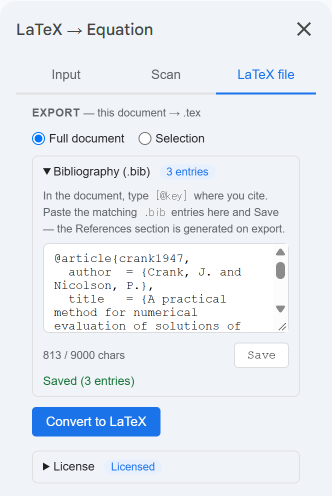
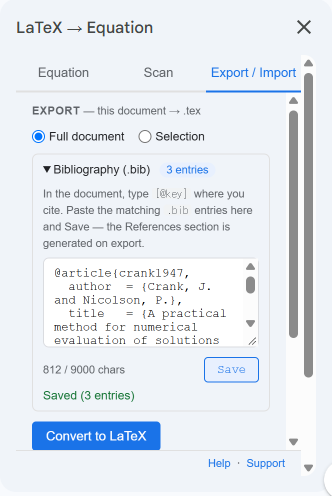
img(10-29): re-shoot 04-bib-box on live v17 (Export / Import tab, Saved (3 entries)); alt char count 813 -> 812 as shown - R182
Claude-Session: https://claude.ai/code/session_01WtnKZasBhqLtdkMYmNon2T

diff --git a/_posts/2026-10-29-google-docs-paper-draft-to-overleaf.md b/_posts/2026-10-29-google-docs-paper-draft-to-overleaf.md
@@ -38,7 +38,7 @@ description: "지도교수와 구글 문서에서 댓글로 다듬던 논문 초
 
 Zotero, Google Scholar, 학회 사이트에서 받은 BibTeX 항목을 `.bib` 하나로 모읍니다. LaTeXFlow 사이드바의 **Export / Import** 탭에서 **Bibliography (.bib)** 칸에 붙여넣고 저장하면, 그 항목들이 이 문서에 저장됩니다. 한 번 저장해 두면 다음에 내보낼 때마다 다시 붙일 필요가 없습니다.
 
-![LaTeXFlow 사이드바의 Export / Import 탭: Bibliography (.bib) 를 펼치면 [@key] 로 인용하라는 안내, @article{crank1947, ... 로 시작하는 붙여넣은 BibTeX, 813 / 9000 chars, Save 버튼, Saved (3 entries) 와 3 entries 표시](/assets/img/posts/2026-10-29/04-bib-box.png){: width="330" }
+![LaTeXFlow 사이드바의 Export / Import 탭: Bibliography (.bib) 를 펼치면 [@key] 로 인용하라는 안내, @article{crank1947, ... 로 시작하는 붙여넣은 BibTeX, 812 / 9000 chars, Save 버튼, Saved (3 entries) 와 3 entries 표시](/assets/img/posts/2026-10-29/04-bib-box.png){: width="330" }
 
 `.bib` 를 붙이지 않고 내보내도 파일은 컴파일됩니다. 인용이 `[?]` 로 찍히고, 파일 맨 위 주석에 나중에 참고문헌을 붙이는 방법이 적혀 있습니다.
 
